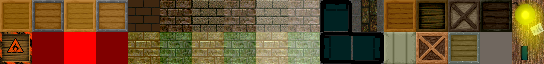
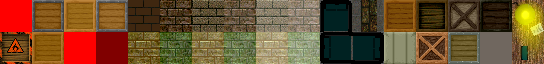
obstaculo ok

Changed region(s): [[0.0, 0.0, 0.125, 1.0]]

diff --git a/src/Map/Obstaculo.java b/src/Map/Obstaculo.java
@@ -36,9 +36,9 @@ int tileSetLinha, tileSetColuna;
 	@Override
 	public void DesenhaSe(Graphics2D dbg, int xTela, int yTela) {
 		// TODO Auto-generated method stub
-		if (tileSetLinha != 0 && tileSetColuna != 0) {
+		if (tileSetLinha != 0 || tileSetColuna != 0) {
 
-			dbg.drawImage(Data.Imagem.obstaculos,(int) getX() - xTela,(int) getY() - yTela,(int) getX() + getSizeX() - xTela,(int) getY() + getSizeY() - yTela, (tileSetColuna*16), (tileSetLinha*16), tileSetColuna*16 + 16, tileSetLinha*16 + 16, null);
+			dbg.drawImage(Data.Imagem.obstaculos,(int) getX() - xTela - getSizeX()/2,(int) getY() - yTela - getSizeY()/2,(int) getX() + getSizeX() - xTela - getSizeX()/2,(int) getY() + getSizeY() - yTela - getSizeY()/2, (tileSetColuna*32), (tileSetLinha*32), tileSetColuna*32 + 32, tileSetLinha*32 + 32, null);
 			//dbg.drawRect((int)getX() - xTela, (int)getY() - yTela, getSizeX(), getSizeY());
 			
 		}else {

diff --git a/src/Gerenciadores/GerenciadorObstaculos.java b/src/Gerenciadores/GerenciadorObstaculos.java
@@ -38,7 +38,9 @@ public class GerenciadorObstaculos extends Objeto {
 
 	private void carregaObstaculos() {
 		
-		addObstaculos(50, 50, 32, 32, 1, 1);
+		addObstaculos(50, 50, 32, 32, 0, 1);
+		addObstaculos(50, 50, 32, 32, 0, 0);
+
 		
 	}
 
